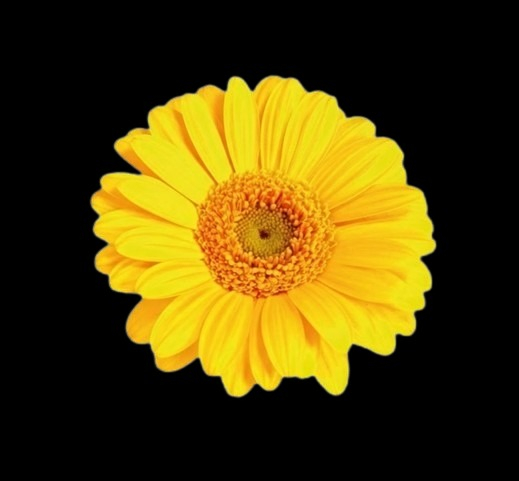
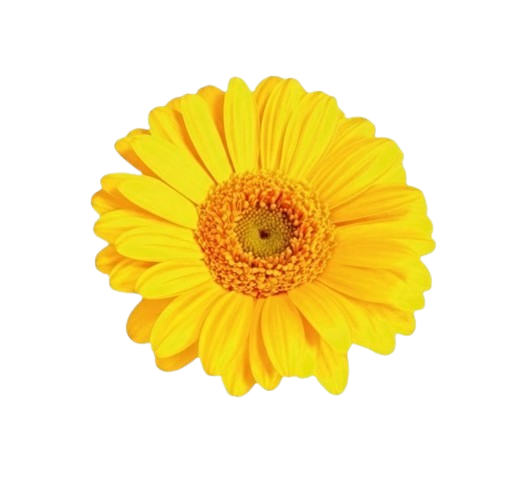
personal fix

diff --git a/frontend/src/app/pages/home/hero-carousel/hero-carousel.html b/frontend/src/app/pages/home/hero-carousel/hero-carousel.html
@@ -11,7 +11,7 @@
                 <div class="card-overlay"></div>
                 <div class="card-content">
                     <h1 class="flores-title">FL<img src="assets/img/flor_amarilla.jpg" alt="O" class="flower-o">RES</h1>
-                    <p class="subtitle">Que inspiran amor propio</p>
+                    <p class="subtitle">By Dolly</p>
                     <p class="description">
                         Descubre la belleza natural que despierta tus sentimientos más profundos.<br>
                         Flores frescas que celebran cada momento especial de tu vida.
